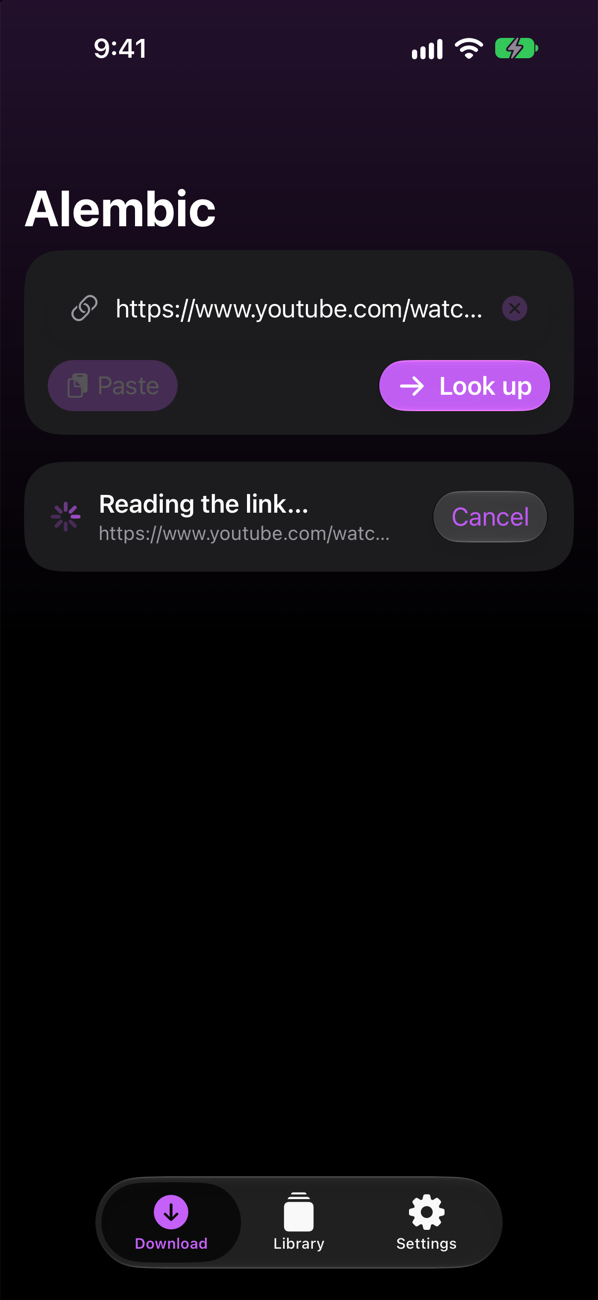
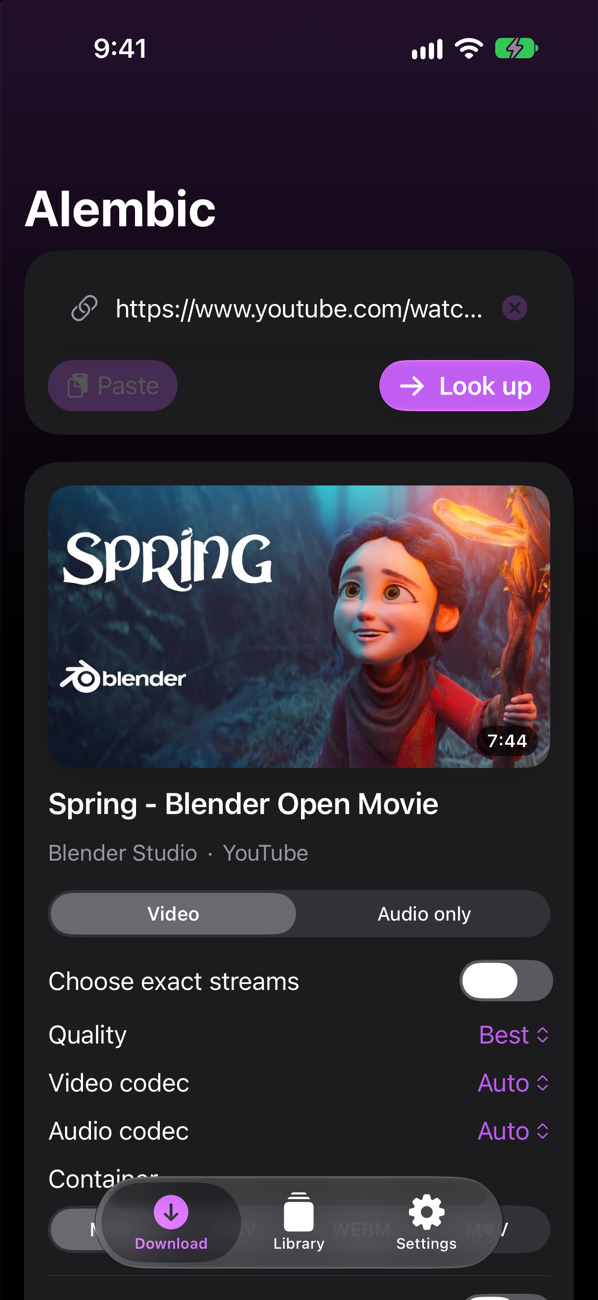
README: lead with why, in Contrail's layout; real dark-mode screenshot

diff --git a/README.md b/README.md
@@ -4,18 +4,9 @@
 
 # Alembic
 
-**yt-dlp as a real iPhone app. Paste a link, pick exactly what you want, and it's saved on your phone.**
+**Any video, straight onto your iPhone. No computer, no cable, no dodgy websites.**
 
-The real yt-dlp and FFmpeg run on the iPhone itself, with no server, no account, no ads and no tracking.
-
-![iOS 26+](https://img.shields.io/badge/iOS-26%2B-3B1D5C?style=flat-square&logo=apple&logoColor=white)
-![Swift](https://img.shields.io/badge/Swift-SwiftUI-F05138?style=flat-square&logo=swift&logoColor=white)
-![GPL-3.0](https://img.shields.io/badge/licence-GPL--3.0-555?style=flat-square)
-![No ads](https://img.shields.io/badge/ads-none-1F7A4D?style=flat-square)
-![No accounts](https://img.shields.io/badge/accounts-none-1F7A4D?style=flat-square)
-![No tracking](https://img.shields.io/badge/analytics-none-1F7A4D?style=flat-square)
-
-[**What it does**](#what-it-does) · [**Install it**](#install-it) · [**Under the hood**](#under-the-hood) · [**Security**](#security) · [**Building**](#building-it-yourself) · [**Licence**](#licence)
+Copy a link, paste it, tap Download. The real yt-dlp and FFmpeg do the work on the phone itself.
 
 <br>
 
@@ -25,27 +16,56 @@ The real yt-dlp and FFmpeg run on the iPhone itself, with no server, no account,
 &nbsp;
 <img src="docs/screenshots/library.png" width="260" alt="The library: Tears of Steel, Spring, Sintel and Big Buck Bunny with thumbnails, format, length and size">
 
-<sub>Real screenshots, with Blender Foundation open movies.</sub>
+<sub><b>Paste it</b> · <b>Pick it</b> · <b>Keep it</b></sub>
+
+<br><br>
+
+### [Get it for iPhone](#install-it)
+
+<sub>Free, no App Store, no sign-up. iOS 26 or newer. Latest: [version 1.0](../../releases/latest).</sub>
+
+<sub>**Already use LiveContainer, SideStore or AltStore?** Add [my app source](https://ratterau.github.io/apps/) once and install and update Alembic with one tap.</sub>
+
+<br>
+
+![iOS 26+](https://img.shields.io/badge/iOS-26%2B-3B1D5C?style=flat-square&logo=apple&logoColor=white)
+![Swift](https://img.shields.io/badge/Swift-SwiftUI-F05138?style=flat-square&logo=swift&logoColor=white)
+![GPL-3.0](https://img.shields.io/badge/licence-GPL--3.0-555?style=flat-square)
+![No ads](https://img.shields.io/badge/ads-none-1F7A4D?style=flat-square)
+![No accounts](https://img.shields.io/badge/accounts-none-1F7A4D?style=flat-square)
+![No tracking](https://img.shields.io/badge/analytics-none-1F7A4D?style=flat-square)
+
+[**Why**](#why) · [**What it does**](#what-it-does) · [**Install it**](#install-it) · [**Under the hood**](#under-the-hood) · [**Security**](#security) · [**Building**](#building-it-yourself)
 
 </div>
 
 ---
 
+## Why
+
+You want a video on your iPhone. Not a link to it: the actual file, for the flight, the gym, or before it disappears.
+
+Here's how that usually goes. Open the laptop. Find a downloader website, dodge the fake *Download* buttons and the pop-ups, and get back a 720p file with the sound slightly off. Then get it onto the phone: plug in a cable, wait on AirDrop, or upload it to the cloud just to download it again. Ten minutes and two devices for one video.
+
+Alembic is the proper way. Copy the link on your iPhone, paste it, tap Download. You pick the quality and get exactly that, and it's in your library a few seconds later. No computer, no cable, no ads, no nonsense.
+
+Under the hood it's [yt-dlp](https://github.com/yt-dlp/yt-dlp), the open-source downloader power users swear by, running for real on the phone. No server in the middle, nothing to pay for, nothing watching.
+
 ## What it does
 
-**Paste a link, see what's there.** Copy a link from YouTube, X, Instagram, Reddit, TikTok or [any of the sites yt-dlp supports](https://github.com/yt-dlp/yt-dlp/blob/master/supportedsites.md), and Alembic shows the title, length and every stream on offer.
+**Paste a link, see what's there.** YouTube, X, Instagram, Reddit, TikTok or [any of the sites yt-dlp supports](https://github.com/yt-dlp/yt-dlp/blob/master/supportedsites.md). Alembic shows the title, length and every stream on offer.
 
-**Simple when you want it, exact when you need it.** Pick a quality and you're done. Or choose codecs (AV1, VP9, HEVC, H.264 for video; Opus or AAC for audio) and a container (MP4, MKV, WebM, MOV). Or turn on *Choose exact streams* and pick any video stream with any audio stream, like `yt-dlp -F`. Containers that can't hold your streams are caught before you download, not after.
+**Simple when you want it, exact when you need it.** Pick a quality and you're done. Or choose codecs (AV1, VP9, HEVC, H.264 for video; Opus or AAC for audio) and a container (MP4, MKV, WebM, MOV). Or turn on *Choose exact streams* and pair any video stream with any audio stream, like `yt-dlp -F`. Containers that can't hold your streams are caught before you download, not after.
 
-**Audio only.** M4A (the default), MP3, Opus, FLAC or WAV. When the stream is already in the format you asked for, it's saved without re-encoding.
+**Audio only.** M4A, MP3, Opus, FLAC or WAV. When the stream is already in the format you asked for, it's saved as is, with no re-encoding.
 
-**Only the part you want.** Download a clip by time or by chapter. Only that part is fetched.
+**Just the part you want.** Download a clip by time or by chapter. Only that part is fetched.
 
 **Finished files are finished.** Cover art, title, artist and chapters are written into the file. Subtitles in any language, including YouTube's automatic ones. SponsorBlock cuts out sponsors, self-promos and subscribe reminders, with no re-encoding and the audio still in sync.
 
 **Playlists and channels.** Tick the videos you want and choose one quality for all of them.
 
-**A library on the phone.** Everything you've downloaded, with thumbnails, search and Apple's own player (AirPlay, Picture in Picture). Save videos to Photos, share them, or convert MKV/WebM to MP4 without losing quality. Every file is also in the Files app.
+**A library on the phone.** Everything you've downloaded, with thumbnails, search and Apple's own player (AirPlay, Picture in Picture). Save to Photos, share, or turn MKV and WebM into MP4 without losing quality. Every file is in the Files app too.
 
 **Several at once.** Up to five downloads in parallel, with progress, speed and time left. Cancel any of them, or retry and it picks up where it stopped.
 
@@ -53,11 +73,13 @@ The real yt-dlp and FFmpeg run on the iPhone itself, with no server, no account,
 
 <div align="center">
 <br>
-<img src="docs/screenshots/media-dark.png" width="260" alt="Sintel looked up in dark mode">
+<img src="docs/screenshots/media-dark.png" width="260" alt="Spring looked up in dark mode, with its thumbnail, quality and codec choices">
 &nbsp;
-<img src="docs/screenshots/library-dark.png" width="260" alt="The library in dark mode">
+<img src="docs/screenshots/library-dark.png" width="260" alt="The library in dark mode: Tears of Steel, Spring, Sintel and Big Buck Bunny">
 &nbsp;
 <img src="docs/screenshots/settings.png" width="260" alt="Settings: yt-dlp version, release channel, automatic updates and parallel downloads">
+
+<sub>Real screenshots, with Blender Foundation open movies.</sub>
 </div>
 
 > [!NOTE]
@@ -80,7 +102,7 @@ New to LiveContainer? The step-by-step setup (iloader, pairing file, SideStore, 
 
 **Where your files go:** the Files app, under *On My iPhone → Alembic*. Under LiveContainer, look in LiveContainer's folder under *Data → Application*.
 
-**Keep Alembic open during big downloads.** iOS pauses apps in the background after a short while. Alembic notifies you if that happens, and Retry resumes where it stopped.
+**Keep Alembic open during big downloads.** iOS pauses apps in the background after a short while. Alembic lets you know if that happens, and Retry picks up where it stopped.
 
 ## Under the hood
 
@@ -91,6 +113,7 @@ iOS apps can't run other programs, so Alembic brings everything inside the app:
 | **yt-dlp** | The official release, running on CPython 3.13 ([BeeWare](https://github.com/beeware/Python-Apple-support)) embedded in the app. Unchanged, so it behaves exactly like yt-dlp on a computer |
 | **FFmpeg 9** | Built for iOS with only what yt-dlp needs (7 MB). `ffmpeg` and `ffprobe` are built as libraries; when yt-dlp starts them, Python's `subprocess` runs them in-process on a thread, wired to real pipes, so yt-dlp needs no changes |
 | **YouTube challenges** | yt-dlp normally needs Deno or Node for these. Alembic runs yt-dlp's own solver script in WebKit, in a locked-down hidden page with no network access |
+| **SponsorBlock cuts** | Each cut is moved to the next keyframe before yt-dlp joins the pieces, so they're joined without re-encoding and the audio stays in sync |
 | **The app** | SwiftUI, Liquid Glass, iOS 26+ |
 
 ```
